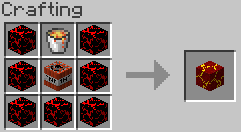
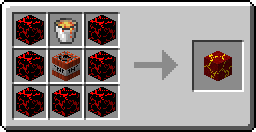
Test first crafting row

diff --git a/docs/blocks/blastblox.md b/docs/blocks/blastblox.md
@@ -10,7 +10,9 @@ The Blast Blox is a Bug Blox which acts similarly to TNT, however it is far more
 
 <img src="../images/crafting/blast_blox.png" usemap="#items">
 <map name="items">
-    <area shape="rect" coords="6,24,38,56" href="normalblox">
+    <area shape="rect" coords="14,14,46,46" href="normalblox">
+    <area shape="rect" coords="50,14,82,46" href="http://minecraft.gamepedia.com/Lava">
+    <area shape="rect" coords="86,14,118,46" href="normalblox">
 </map>
 
 | |Crafting |
